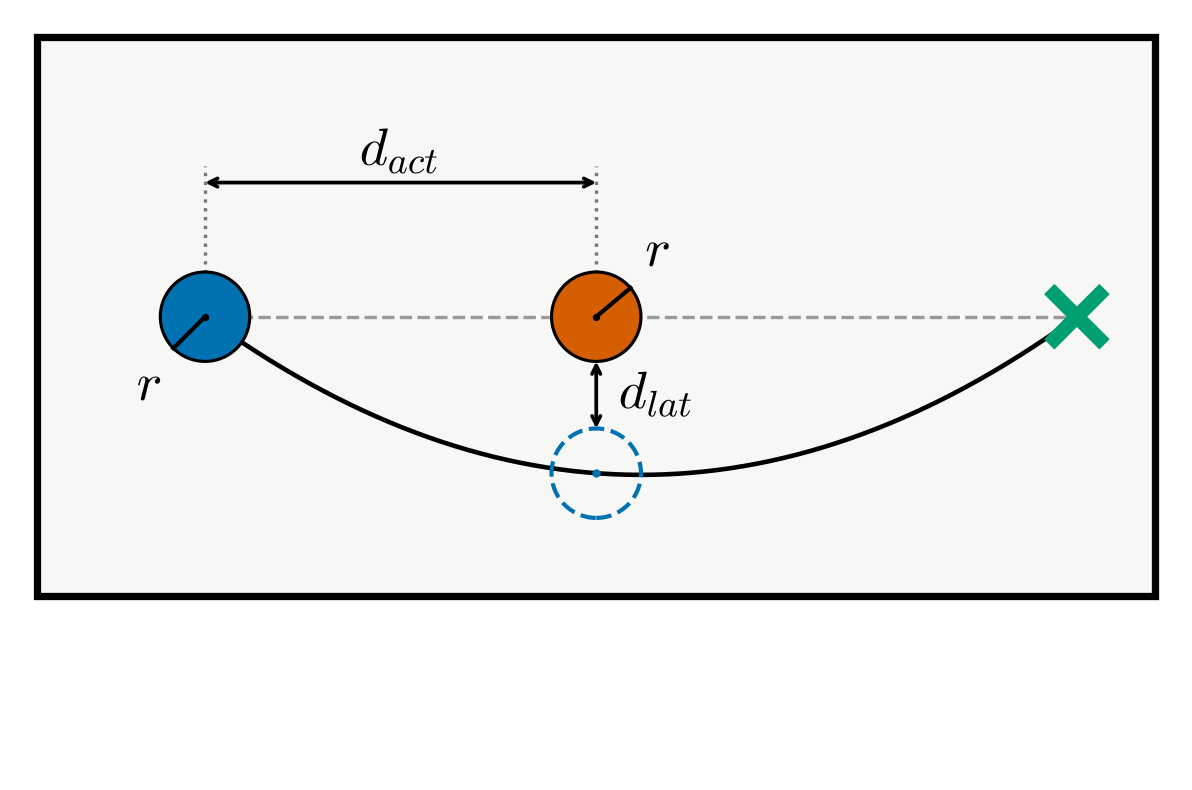
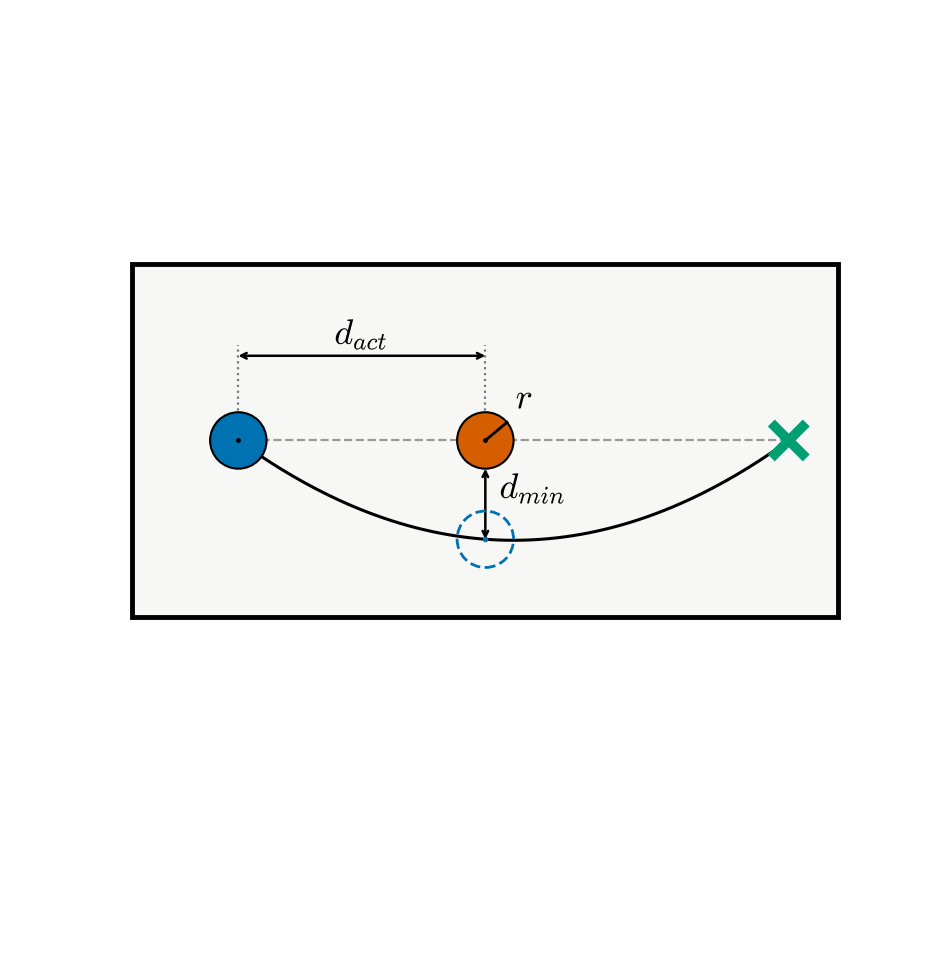
changes... rollback

Changed region(s): [[0.0, 0.0304, 0.9799, 0.7595]]

diff --git a/scripts/plot_elusion_geometry.py b/scripts/plot_elusion_geometry.py
@@ -1,5 +1,5 @@
 #!/usr/bin/env python3
-"""Esquema minimalista de la capa de elusión: cómo se toman r_p, r_o, d_lat y d_act."""
+"""Esquema minimalista de la capa de elusión: cómo se toman r_o, d_min y d_act."""
 import argparse
 
 import matplotlib.pyplot as plt
@@ -9,8 +9,8 @@ from matplotlib.patches import Circle, Rectangle
 plt.rcParams["mathtext.fontset"] = "cm"
 
 BLUE, ORANGE, GREEN, GRAY = "#0072B2", "#D55E00", "#009E73", "#4d4d4d"
-R_P, R_O, D_LAT = 0.40, 0.40, 0.60
-R = R_P + R_O + D_LAT
+R_P, R_O, D_MIN = 0.40, 0.40, 1.00   # R_P solo para dibujar la partícula
+R = D_MIN + R_O                       # distancia de paso: borde del obstáculo -> centro de la partícula = d_min
 P, O, T = np.array([1.5, 2.5]), np.array([5.0, 2.5]), np.array([9.3, 2.5])
 
 
@@ -51,11 +51,8 @@ def main():
     arrow(ax, (P[0], y_act), (P[0] + d_act, y_act))
     ax.text(P[0] + d_act / 2, y_act + 0.15, "$d_{act}$", fontsize=26, ha="center")
 
-    # partícula y radio r_p
+    # partícula
     ax.add_patch(Circle(P, R_P, fc=BLUE, ec="k", lw=1.5, zorder=4))
-    ang_p = np.deg2rad(-135)
-    ax.text(P[0] - 0.5, P[1] - 0.75, "$r$", fontsize=26, ha="center")
-    ax.plot(*zip(P, P + R_P * np.array([np.cos(ang_p), np.sin(ang_p)])), color="k", lw=2, zorder=5)
     ax.plot(*P, ".", color="k", ms=5, zorder=6)
 
     # obstáculo y radio r_o
@@ -64,15 +61,15 @@ def main():
     ax.plot(*O, ".", color="k", ms=5, zorder=6)
     ax.text(O[0] + 0.55, O[1] + 0.45, "$r$", fontsize=26, ha="center")
 
-    # partícula al pasar (a distancia r_o + d_lat + r_p del centro del obstáculo)
+    # partícula al pasar: su centro queda a d_min del borde del obstáculo
     G = np.array([O[0], O[1] - R])
     ax.add_patch(Circle(G, R_P, fc="none", ec=BLUE, ls="--", lw=2, zorder=4))
     ax.plot(*G, ".", color=BLUE, ms=6, zorder=5)
 
-    # d_lat: hueco entre el borde del obstáculo y el borde de la partícula
-    y_top, y_bot = O[1] - R_O, G[1] + R_P
+    # d_min: del borde del obstáculo al CENTRO de la partícula
+    y_top, y_bot = O[1] - R_O, G[1]
     arrow(ax, (O[0], y_top), (O[0], y_bot))
-    ax.text(O[0] + 0.2, (y_top + y_bot) / 2, "$d_{lat}$", fontsize=26, va="center")
+    ax.text(O[0] + 0.2, y_top - 0.3, "$d_{min}$", fontsize=26, va="center")
 
     ax.set_xlim(-0.2, 10.2)
     ax.set_ylim(-1.6, 5.2)

diff --git a/src/utils/quadratic_heuristic.cpp b/src/utils/quadratic_heuristic.cpp
@@ -39,7 +39,7 @@ new_desired_direction(Particle particle, Particle obstacle,
   const double obs_edge =
       obs_x * rx + obs_y * ry +
       (d_lat +
-       obstacle.r + particle.r); // distancia del centro del obs al borde "imaginario"
+       obstacle.r); // distancia del centro del obs al borde "imaginario"
 
   // la pendiente se calcula como si la linea recta particula -> target fuera el
   // eje x
@@ -66,7 +66,7 @@ bool is_conflicting(Particle particle, Particle pot_obstacle,
   const double along = obs_x * ux + obs_y * uy; // distance along the line
   const double lateral = obs_x * rx + obs_y * ry;
 
-  const double R = d_lat + pot_obstacle.r + particle.r;
+  const double R = d_lat + pot_obstacle.r;
 
   /* particle isnt on the target, obstacle is in front of the target, and iits
    * inside the circle*/

diff --git a/docs/presentation/secciones/resultados.tex b/docs/presentation/secciones/resultados.tex
@@ -1,3 +1,11 @@
+\begin{frame}{Elección de $dt$}
+  \centering
+  \includegraphics[width=\linewidth,height=0.70\textheight,keepaspectratio]{dt_convergencia.png}
+
+  \vspace{4pt}
+  {\large Paso de simulación $dt = 10^{-3}\uni{s}$; \quad paso para guardar estado $dt_2 = \Delta t_{exp}$}
+\end{frame}
+
 \begin{frame}{Animaciones del sistema}
   \begin{columns}[T]
     \begin{column}{0.49\textwidth}

diff --git a/docs/presentation/secciones/implementacion.tex b/docs/presentation/secciones/implementacion.tex
@@ -21,10 +21,4 @@
   \end{algorithmic}
 \end{frame}
 
-\begin{frame}{Elección de $dt$}
-  \centering
-  \includegraphics[width=\linewidth,height=0.70\textheight,keepaspectratio]{dt_convergencia.png}
 
-  \vspace{4pt}
-  {\large Paso de simulación $dt = 10^{-3}\uni{s}$; \quad paso para guardar estado $dt_2 = \Delta t_{exp}$}
-\end{frame}
